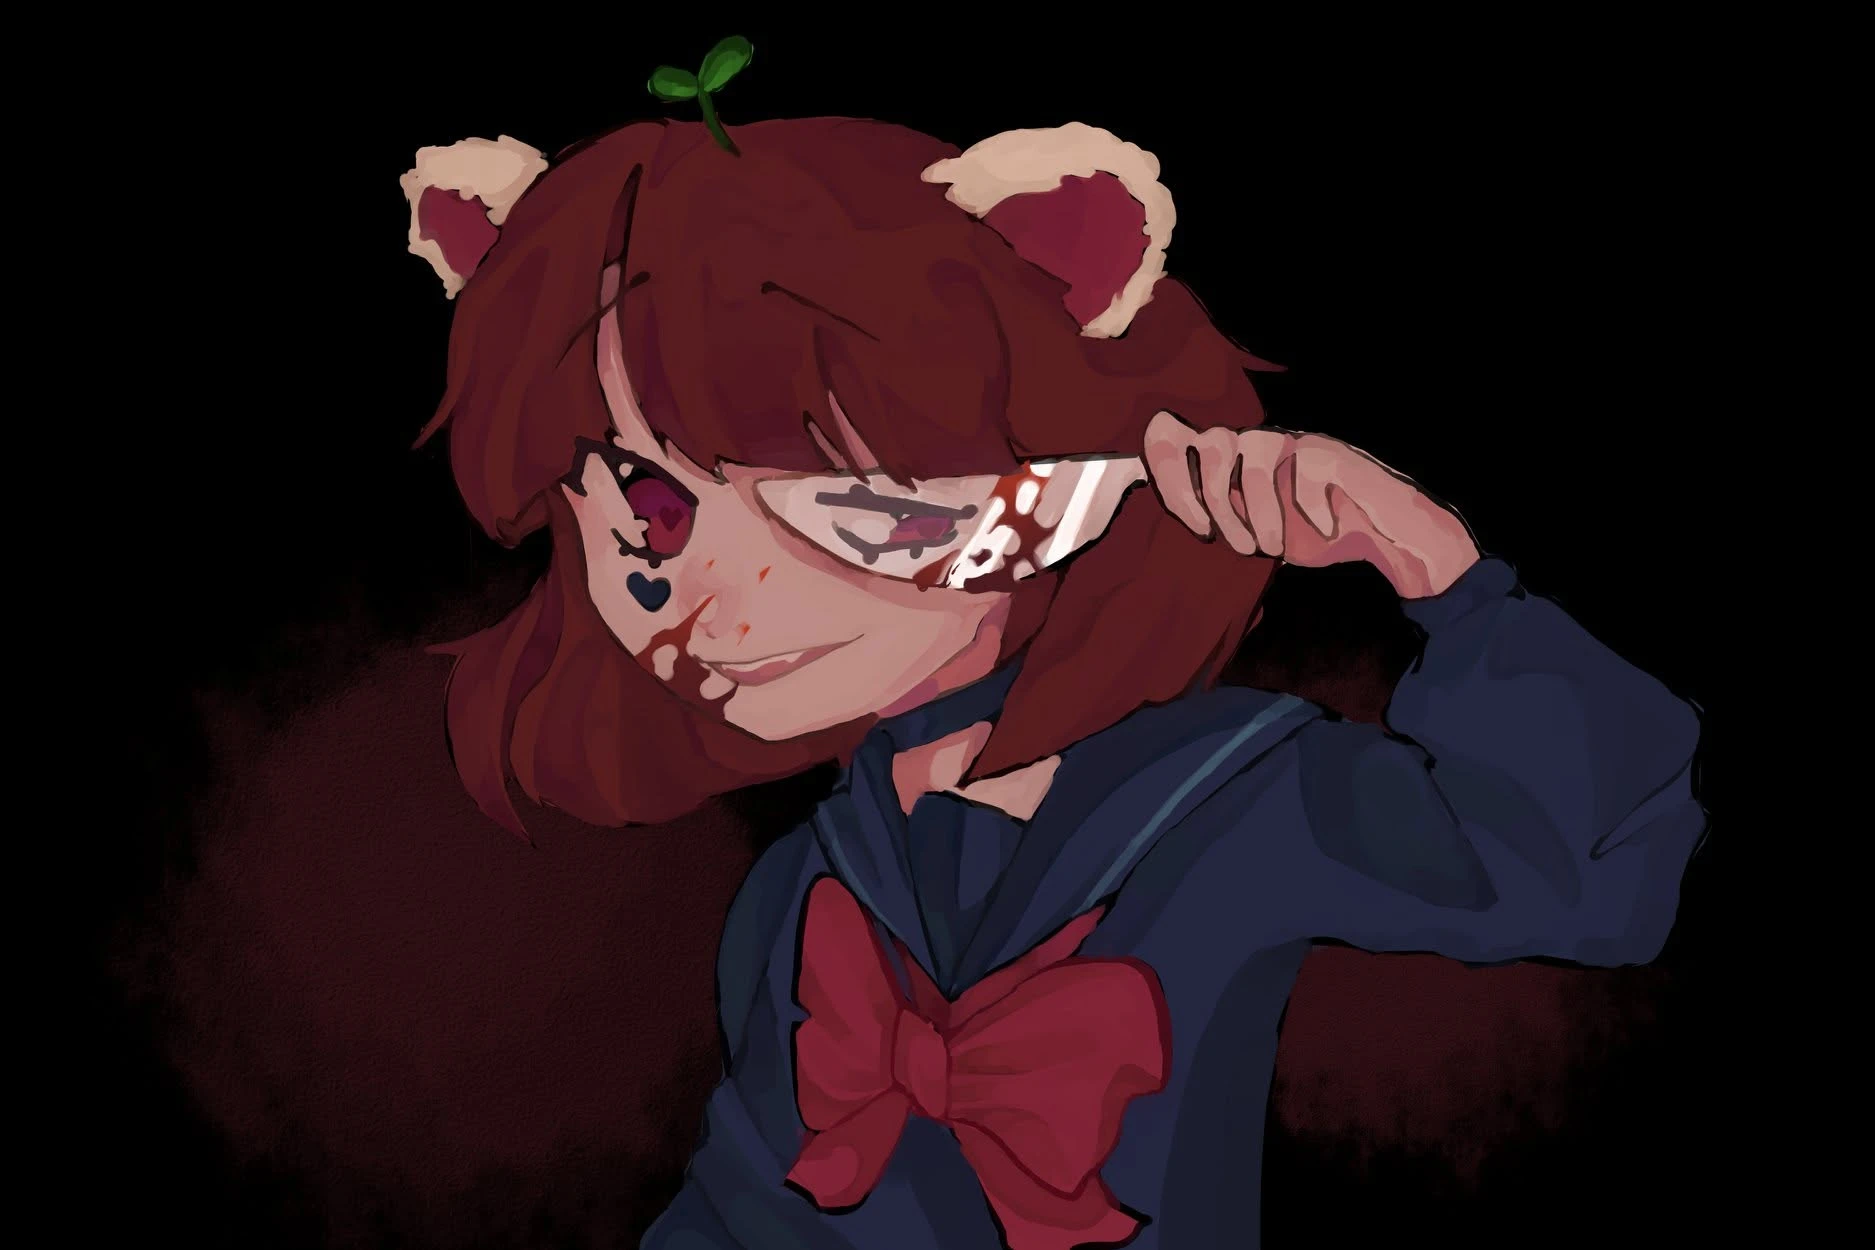
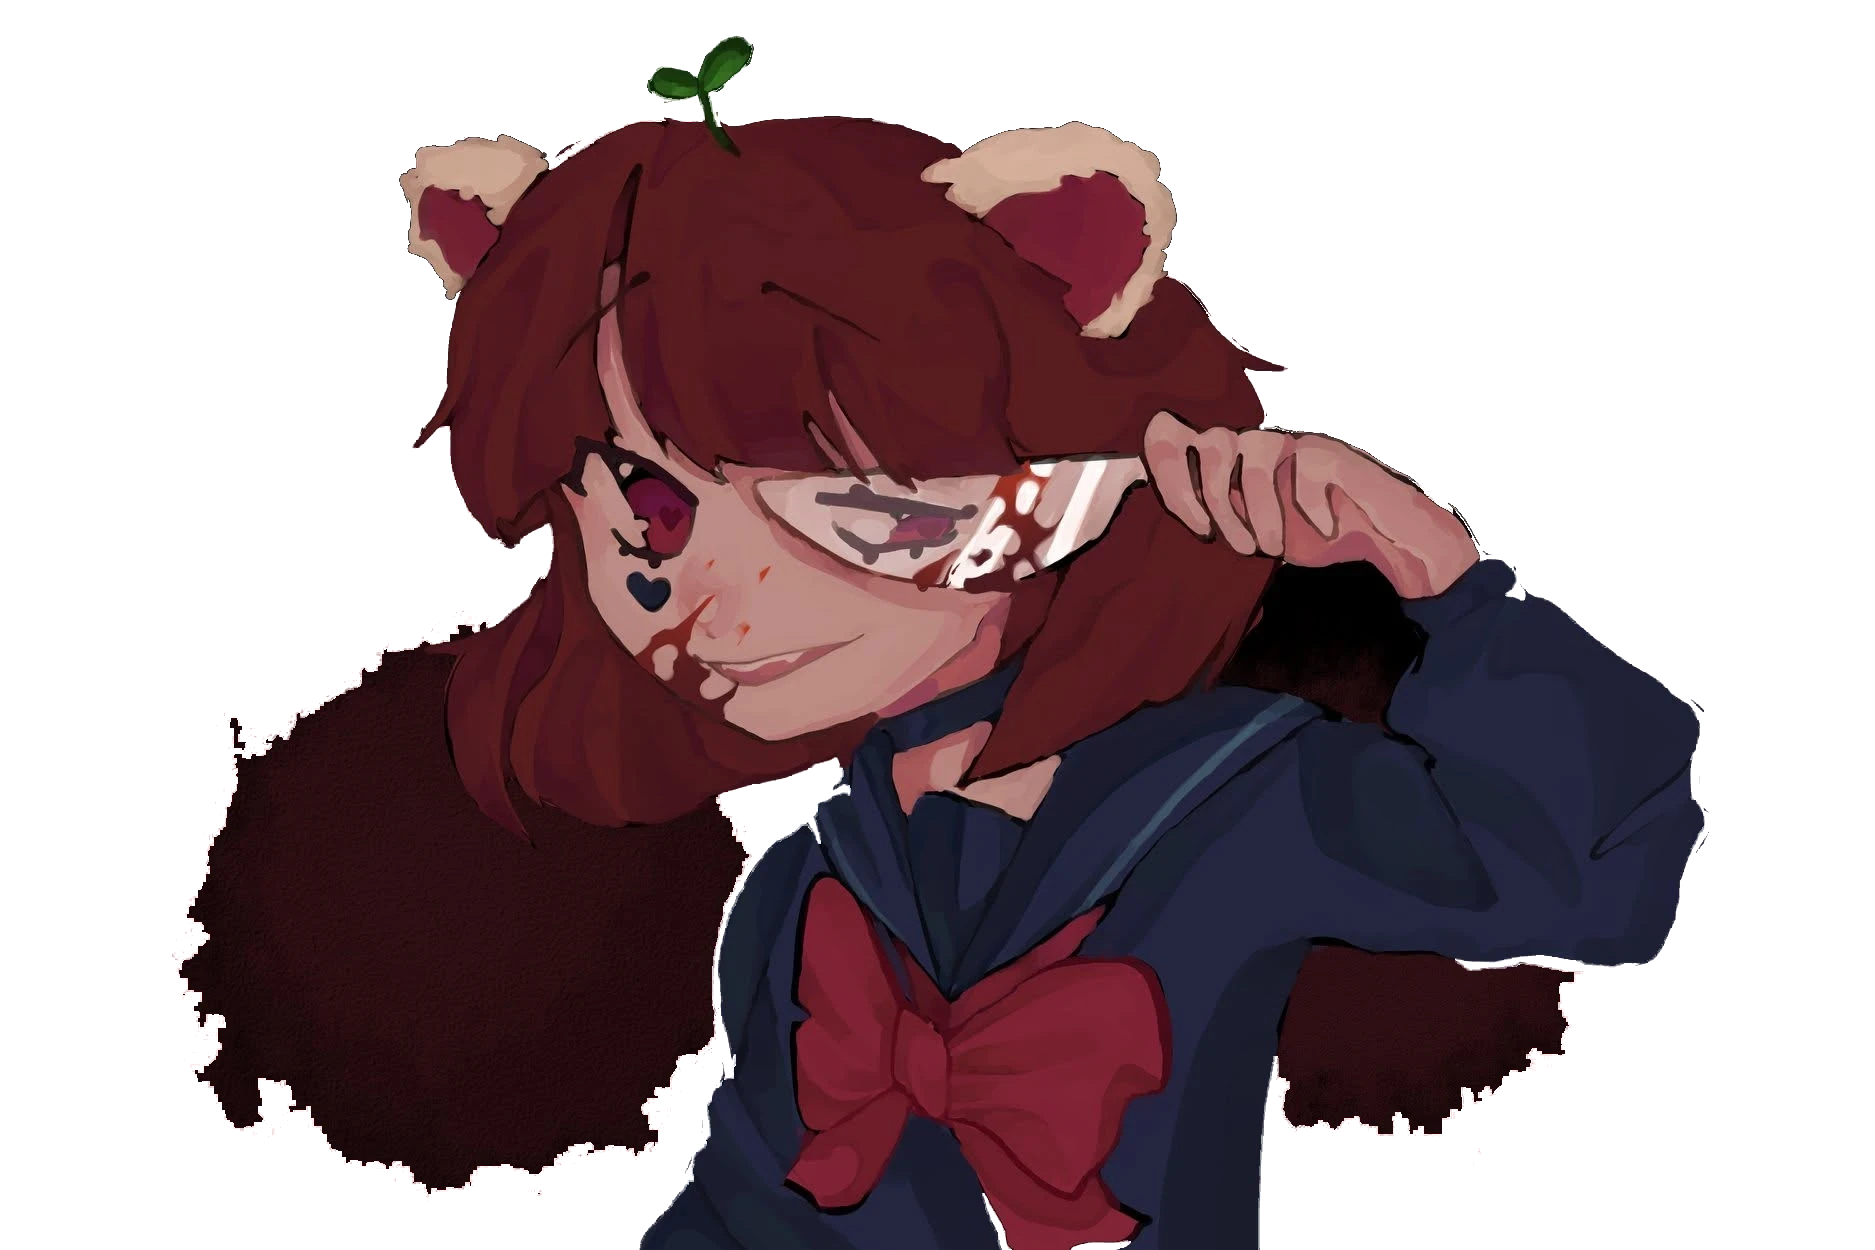
Case studies: videos and pictures sit on the page with square corners and no frames; facts panel tinted caramel; light-view link shimmer runs yellow, pink and ink

diff --git a/templates/partials/design_list.html b/templates/partials/design_list.html
@@ -51,7 +51,7 @@
 
     <a class="strip-card" href="olympics" data-previews="{{ previews('olympics', ['2Sapphire.jpg', '4Ruby.jpg', '5Emerald.jpg', '3Amethyst.jpg']) }}" data-brand>
         <div class="strip">
-            <img class="strip-art" src="{{ img('olympics', '6Artboard.jpg') }}" alt="CNN Olympics team logos">
+            <img class="strip-art" src="{{ img('olympics', '6Artboard.webp') }}" alt="CNN Olympics team logos">
             <div class="strip-stack">
                 <span class="tag-chip">Logos</span>
             </div>
@@ -60,7 +60,7 @@
         <p class="strip-desc">Commissioned team logos for CNN Hội Thao.</p>
     </a>
 
-    <a class="strip-card" href="/commonspirit" data-previews="{{ previews('ux', ['commonspirit/redes1.png', 'commonspirit/redes2.png', 'commonspirit/impact-effort.png']) }}" data-uiux data-featured>
+    <a class="strip-card" href="/commonspirit" data-previews="{{ previews('ux', ['commonspirit/redes1.webp', 'commonspirit/redes2.webp', 'commonspirit/impact-effort.png']) }}" data-uiux data-featured>
         <div class="strip">
             <img class="strip-art" src="{{ img('ux', 'commonspirit/preview.webp') }}" alt="T4SG × CommonSpirit Health redesign preview">
             <div class="strip-stack">
@@ -71,7 +71,7 @@
         <p class="strip-desc">12-week T4SG project improving CommonSpirit's internal resource tool (CIP).</p>
     </a>
 
-    <a class="strip-card" href="/t4sg" data-previews="{{ previews('ux', ['t4sg/hifi view.png', 't4sg/hifi add.png', 't4sg/userflow.png', 't4sg/affmap.png']) }}" data-uiux data-featured>
+    <a class="strip-card" href="/t4sg" data-previews="{{ previews('ux', ['t4sg/hifi view.webp', 't4sg/hifi add.webp', 't4sg/userflow.png', 't4sg/affmap.png']) }}" data-uiux data-featured>
         <div class="strip">
             <img class="strip-art" src="{{ img('ux', 't4sg/preview.webp') }}" alt="T4SG × 2ft inventory system preview">
             <div class="strip-stack">
@@ -138,7 +138,7 @@
 
     <div class="strip-card">
         <div class="strip">
-            <img class="strip-art" src="{{ img('client', 'teddeah!.png') }}" alt="TeddeAh! logo">
+            <img class="strip-art" src="{{ img('client', 'teddeah!.webp') }}" alt="TeddeAh! logo">
             <div class="strip-stack">
                 <span class="tag-chip">Logo</span>
             </div>

diff --git a/templates/Projects/2ft.html b/templates/Projects/2ft.html
@@ -40,7 +40,7 @@
     </p>
     {% endcall %}
 
-    {{ cs.figure(img('ux', 't4sg/redes.png'), "2ft inventory system redesign overview", zoom=False) }}
+    {{ cs.figure(img('ux', 't4sg/redes.webp'), "2ft inventory system redesign overview", zoom=False) }}
 
     {% call cs.section("The Current Problem", lead="Good Intentions, Fragile Systems") %}
     <p>
@@ -321,7 +321,7 @@
     {% endcall %}
 
     {% call cs.section("Lo-Fi Prototyping", lead="Stripping It Down Until It Made Sense") %}
-    {{ cs.card(img('ux', 't4sg/lofi up.png'), "Lo-fi ideation sketches", size="lg") }}
+    {{ cs.card(img('ux', 't4sg/lofi up.webp'), "Lo-fi ideation sketches", size="lg") }}
     <p>
         The black & white prototypes focused purely on information hierarchy, navigation clarity,
         and reducing visual density. If a field didn’t earn its place, it was removed.
@@ -329,8 +329,8 @@
     {% endcall %}
 
     {{ cs.mockups([
-        (img('ux', 't4sg/lofi view.png'), "Lo-fi view component screen (B&W)"),
-        (img('ux', 't4sg/lofi add.png'), "Lo-fi add component flow (B&W)"),
+        (img('ux', 't4sg/lofi view.webp'), "Lo-fi view component screen (B&W)"),
+        (img('ux', 't4sg/lofi add.webp'), "Lo-fi add component flow (B&W)"),
     ]) }}
 
     {% call cs.section("What we learned, what we changed, and why it worked", index="Iteration") %}
@@ -367,9 +367,9 @@
     {% endcall %}
 
     {{ cs.mockups([
-        (img('ux', 't4sg/hifi view.png'), "Hi-fi view component (blue/yellow)"),
-        (img('ux', 't4sg/hifi edit.png'), "Hi-fi edit component inline popup (blue/yellow)"),
-        (img('ux', 't4sg/hifi add.png'), "Hi-fi add component (blue/yellow)"),
+        (img('ux', 't4sg/hifi view.webp'), "Hi-fi view component (blue/yellow)"),
+        (img('ux', 't4sg/hifi edit.webp'), "Hi-fi edit component inline popup (blue/yellow)"),
+        (img('ux', 't4sg/hifi add.webp'), "Hi-fi add component (blue/yellow)"),
     ], caption="(1) View component, (2) Edit Component, (3) Add Component") }}
 
     {% call cs.section("Testing & Feedback", lead="Where the Design Got Smarter (Fast)") %}

diff --git a/templates/about.html b/templates/about.html
@@ -109,7 +109,7 @@
                 <img class="bio-thumb" src="{{ img('about', 'pose.jpg') }}" alt="" loading="lazy">
                 <img class="bio-thumb" src="{{ img('about', 'beach.jpg') }}" alt="" loading="lazy">
                 <img class="bio-thumb" src="{{ img('about', 'cong.jpg') }}" alt="" loading="lazy">
-                <p class="bio-card-note">Want to know more about me? Find the puzzles on here and you will know :)</p>
+                <p class="bio-card-note">Want to know more about me? Find the puzzles on here and you will :)</p>
             </div>
         </div>
         <h2 class="bio-name">My name is Chi Le or Lê Tuệ Chi.</h2>
@@ -130,7 +130,7 @@
         </div>
     </div>
     <div class="bio-text">
-        <p class="bio-lead">I am a code-liking designer or an art-liking developer (whatever you wanna call it) based in Cambridge, MA and I LOVE to make things more curious.</p>
+        <p class="bio-lead">I’m a designer who code or a developer who draws, based in Cambridge, MA. I like to make things a little stranger and a lot more curious.</p>
         <p>
             I am currently a junior at Harvard College, concentrating in <a class="ext" href="https://seas.harvard.edu/computer-science" target="_blank" rel="noopener">Computer Science</a>
             and <a class="ext" href="https://afvs.fas.harvard.edu/" target="_blank" rel="noopener">Art, Film, and Visual Studies</a> with a secondary in <a class="ext" href="https://www.math.harvard.edu/" target="_blank" rel="noopener">Mathematics</a>.

diff --git a/static/css/settings.css b/static/css/settings.css
@@ -23,8 +23,9 @@
     --ink-bleed: 0 0 0.7px rgba(var(--fg-rgb), 0.5);   /* letters soak slightly into the paper */
     --shadow-rgb: 120, 100, 80;     /* warm and faint on paper */
     --view-bubble: rgba(255, 255, 255, 0.75);   /* a white bubble, lighter than the paper */
-    --facts-tint: rgba(var(--accent-rgb), 0.22);       /* case study facts panel */
-    --facts-tint-fade: rgba(var(--accent-rgb), 0.03);
+    --caramel-rgb: 190, 140, 90;      /* case study facts panel */
+    --facts-tint: rgba(var(--caramel-rgb), 0.26);
+    --facts-tint-fade: rgba(var(--caramel-rgb), 0.03);
 }
 
 /* No glows on paper: selected text is plain pink */
@@ -73,9 +74,9 @@
     opacity: 0.45;
 }
 
-/* Shimmering links and the poem run yellow through ink */
+/* Shimmering links and the poem run yellow through pink to ink and back */
 :root[data-theme="light"] :is(.com-footer:hover, .bio-text a:hover, .gradient-poem) {
-    background-image: linear-gradient(45deg, var(--yellow), var(--c-strong), var(--yellow));
+    background-image: linear-gradient(45deg, var(--yellow), var(--accent), var(--c-strong), var(--accent), var(--yellow));
 }
 
 :root[data-theme="light"] .progress-bar {

diff --git a/static/css/ux.css b/static/css/ux.css
@@ -197,13 +197,12 @@ html {
     opacity: 0.95;
 }
 
+/* Videos sit straight on the page: square corners, no frame or ring around them */
 .video {
   width: min(920px, 100%);
   margin: 1.5rem auto;
-  border-radius: var(--r-lg);
   overflow: hidden;
-  background: #000;
-  box-shadow: 0 20px 40px rgba(var(--shadow-rgb), 0.25), 0 0 0 1px rgba(var(--fg-rgb), 0.08);
+  background: var(--thumb-blank);
 }
 
 .video video {
@@ -266,11 +265,10 @@ html {
     align-items: stretch;
 }
 
+/* Pictures sit straight on the page: no panel or outline around them */
 .media-card {
     width: 100%;
     margin: 0 auto;
-    background: var(--bg-panel);
-    border: 1px solid var(--hairline);
     overflow: hidden;
 }
 
@@ -1760,6 +1758,15 @@ html {
     background: var(--glass);
     text-decoration: none;
     transition: filter var(--dur-1) var(--ease-out);
+}
+
+/* A video that is itself the link (the 2ft prototype) gets no panel around it */
+.cta-button:has(> .video) {
+    display: block;
+    max-width: none;
+    padding: 0;
+    border: 0;
+    background: none;
 }
 
 .cta-button .cs-label {

diff --git a/templates/Projects/commonspirit.html b/templates/Projects/commonspirit.html
@@ -83,10 +83,10 @@
     </p>
     {% endcall %}
 
-    {{ cs.figure(img('ux', 'commonspirit/redes1.png'), "CommonSpirit Health redesign — Preferences page", size="lg",
+    {{ cs.figure(img('ux', 'commonspirit/redes1.webp'), "CommonSpirit Health redesign — Preferences page", size="lg",
                  caption="Preferences — renamed from \"General,\" since the page had grown into advanced settings (chart color mode, contrast, sorting, default document sets, geography level) that \"General\" undersold.") }}
 
-    {{ cs.figure(img('ux', 'commonspirit/redes2.png'), "CommonSpirit Health redesign — Account page", size="lg",
+    {{ cs.figure(img('ux', 'commonspirit/redes2.webp'), "CommonSpirit Health redesign — Account page", size="lg",
                  caption="Account — accessible directly from the profile card, which is why it's the first settings screen staff land on.") }}
 
     {% call cs.section("Reflection", lead="Palette and IA decisions carry more weight in an internal tool") %}

diff --git a/templates/personal websites/fysemr.html b/templates/personal websites/fysemr.html
@@ -11,7 +11,7 @@
            eyebrow="Illustration", meta="December 2024",
            tags=["Course: FYSEMR 65R", "Tools: Clip Studio Paint + InDesign"]) }}
 
-{{ cs.figure(img('fish', 'full.jpg'), "The Land of Rivers: the finished spread") }}
+{{ cs.figure(img('fish', 'full.webp'), "The Land of Rivers: the finished spread") }}
 
 {% call cs.body() %}
 
@@ -21,8 +21,8 @@
 
     {% call cs.row("3") %}
         {{ cs.card(img('fish', 'fish outline.jpg'), "Fish outline layer") }}
-        {{ cs.card(img('fish', 'no fish.jpg'), "The spread without the fish") }}
-        {{ cs.card(img('fish', 'no sub.jpg'), "The spread without subtitles") }}
+        {{ cs.card(img('fish', 'no fish.webp'), "The spread without the fish") }}
+        {{ cs.card(img('fish', 'no sub.webp'), "The spread without subtitles") }}
     {% endcall %}
 
     {{ cs.embed("https://drive.google.com/file/d/1HbtgJBMA1PF065dIGyaITdW0obwVOD39/preview", "The Land of Rivers", ar=1.294) }}

diff --git a/static/css/body.css b/static/css/body.css
@@ -114,18 +114,14 @@
     line-height: 1.8;
 }
 
+/* Pictures and videos sit straight on the page: square corners, no panel, outline or shadow */
 .media-card {
     width: min(900px, 85vw);
     margin: 0 auto;
-    border-radius: var(--r-lg);
-    border: 1px solid var(--border);
-    background: var(--panel);
-    box-shadow: 0 10px 22px rgba(var(--shadow-rgb), 0.25);
 }
 
 .media-card img {
     width: 100%;
-    border-radius: var(--r-sm);
     display: block;
     filter: grayscale(20%);
     transition: filter var(--dur-2) var(--ease-out), transform var(--dur-2) var(--ease-out);
@@ -189,7 +185,6 @@
     width: 100%;
     display: block;
     border: 0;
-    border-radius: var(--r-sm);
     aspect-ratio: 16 / 9;
 }
 

diff --git a/templates/personal.html b/templates/personal.html
@@ -120,7 +120,7 @@
     </a>
 
         
-    <a class="card" href="fysemr" data-previews="{{ previews('fish', ['full.jpg', 'fish outline.jpg', 'no fish.jpg', 'no sub.jpg']) }}" data-category="essays">
+    <a class="card" href="fysemr" data-previews="{{ previews('fish', ['full.webp', 'fish outline.jpg', 'no fish.webp', 'no sub.webp']) }}" data-category="essays">
       <div class="thumbnail-header">The land of rivers: An imagined tea garden</div>
       <div class="thumbnail-description">Final project for FYSEMR 65R - created with Clip Studio Paint and InDesign
       </div>

diff --git a/app.py b/app.py
@@ -35,7 +35,7 @@ IMAGE_FOLDERS = {
 
 # Cache-busting version appended to local CSS/JS URLs (?v=...).
 # Bump on every change so browsers fetch fresh assets.
-ASSET_VERSION = "121"
+ASSET_VERSION = "123"
 
 GALLERY_IMAGE_EXTENSIONS = {".jpg", ".jpeg", ".png", ".gif", ".webp"}
 
